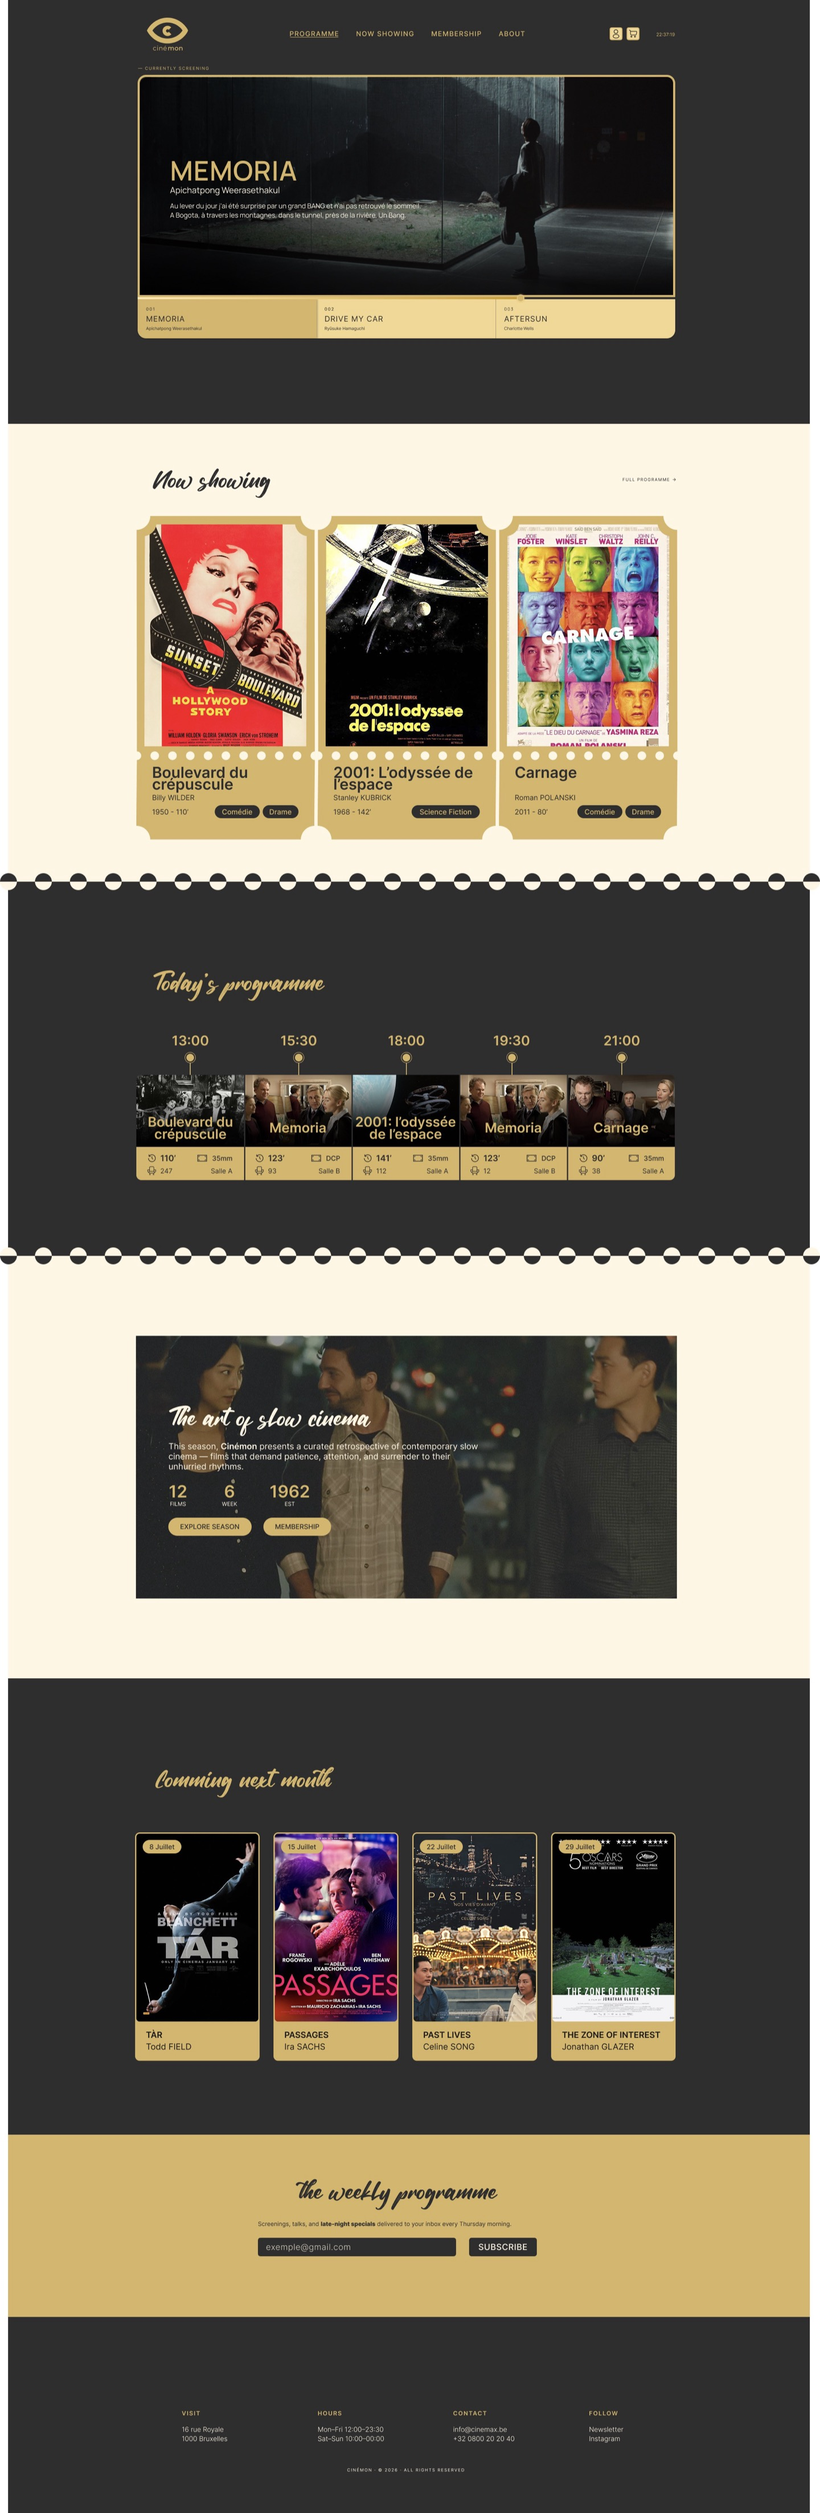
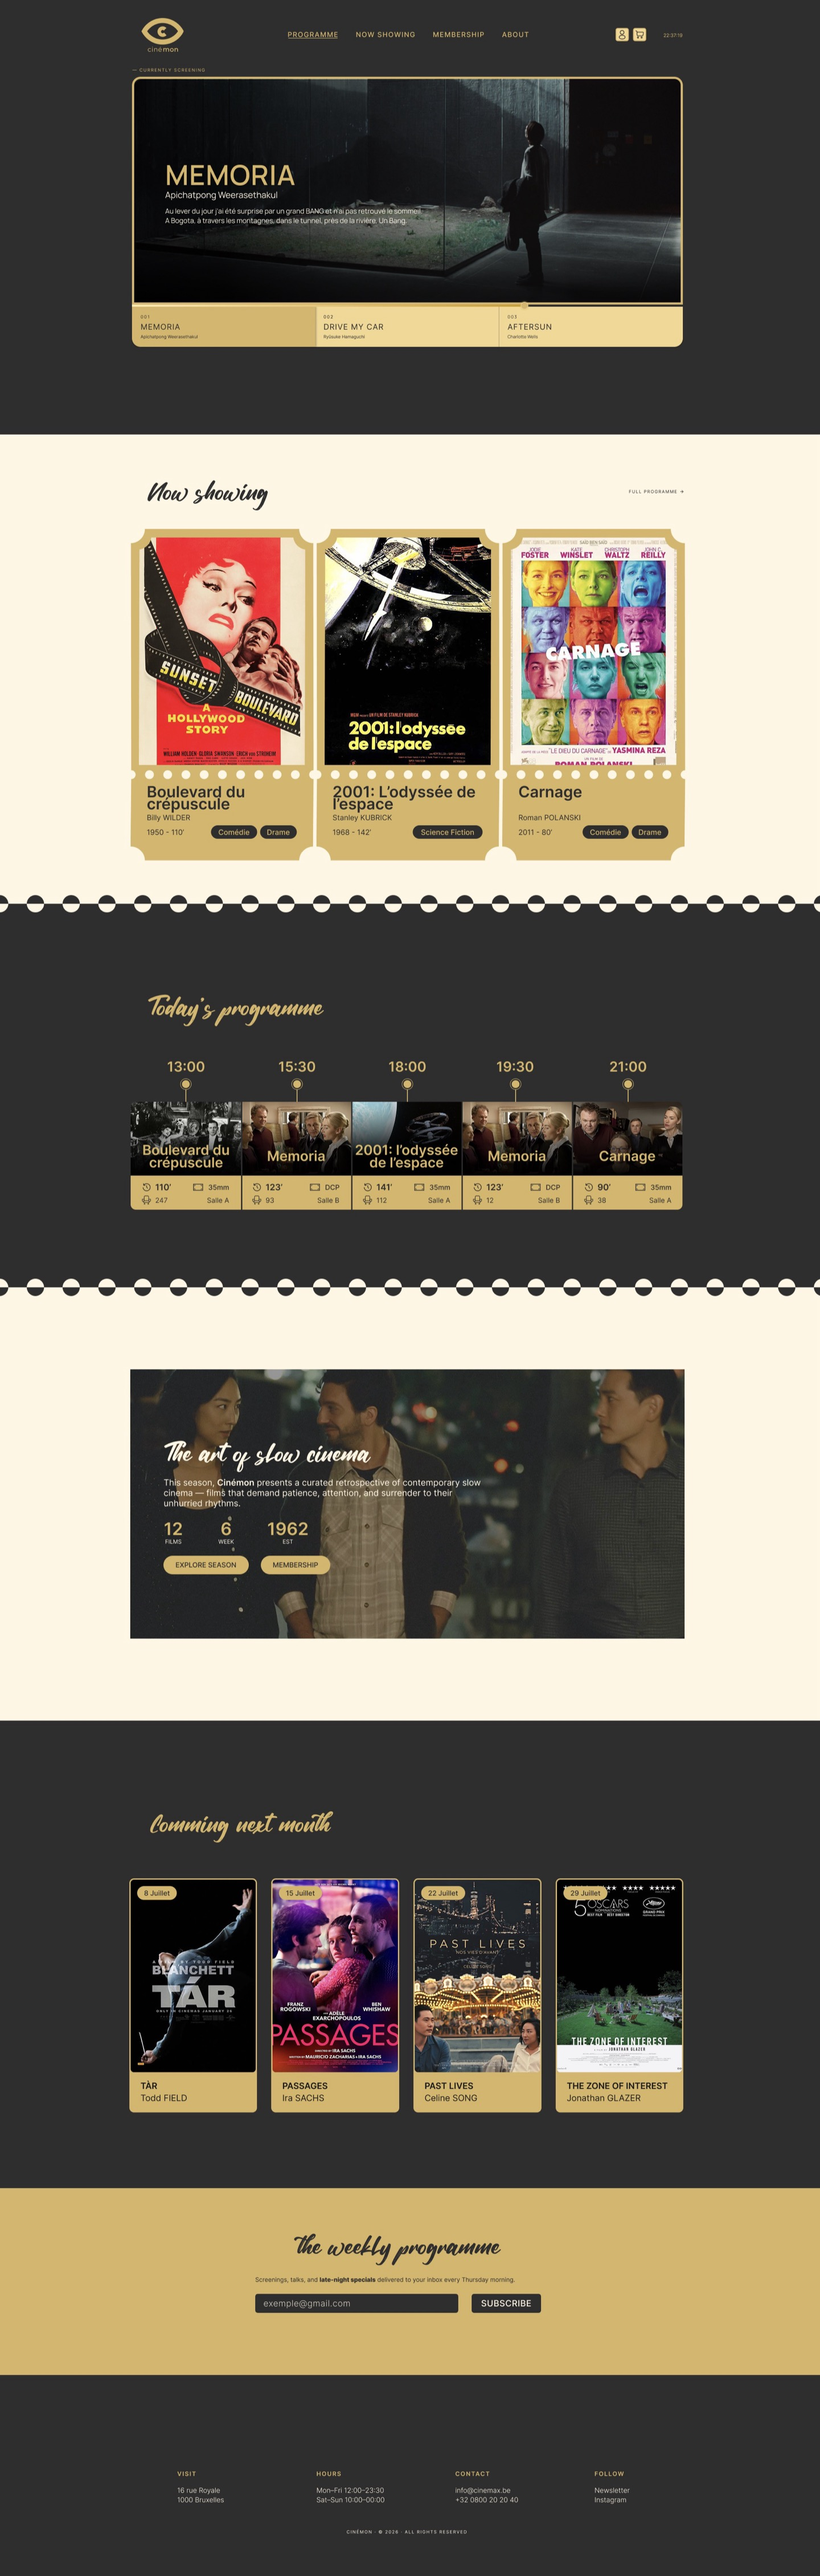
Multiples correctifs

diff --git a/js/main.js b/js/main.js
@@ -50,7 +50,7 @@
     cinemon: {
       title: 'Cinémon',
       items: [
-        { src: 'assets/img/cinemon-desktop.jpg', w: 1440, h: 4411, kind: 'wide', cap: 'Desktop : page d\'accueil complète', alt: 'Page d\'accueil desktop de Cinémon' },
+        { src: 'assets/img/cinemon-desktop.jpg', w: 1440, h: 4520, kind: 'wide', cap: 'Desktop : page d\'accueil complète', alt: 'Page d\'accueil desktop de Cinémon' },
         { src: 'assets/img/cinemon-mobile.jpg', w: 375, h: 5454, kind: 'phone', cap: 'Mobile', alt: 'Version mobile de Cinémon' },
       ],
     },
@@ -231,20 +231,23 @@
     ScrollTrigger.addEventListener('refreshInit', () => ScrollTrigger.sort());
 
     /* Reel : le cadre s'ouvre en plein écran, les colonnes glissent.
-       Créé une seule fois (les valeurs s'adaptent à la largeur à chaque recalcul). */
-    const travel = () => (narrow() ? 0.15 : 0.3);
-    const reel = gsap.timeline({
-      scrollTrigger: { trigger: '.reel', start: 'top top', end: '+=150%', pin: true, scrub: true, invalidateOnRefresh: true },
-    });
-    reel.fromTo('.reel__frame',
-      { clipPath: 'inset(16% 20% 16% 20% round 28px)' },
-      { clipPath: 'inset(0% 0% 0% 0% round 0px)', ease: 'power2.inOut', duration: 0.55 }, 0);
-    reel.fromTo('.reel__cols', { scale: 1.25 }, { scale: 1, ease: 'power2.inOut', duration: 0.55 }, 0);
-    $$('.reel__col').forEach((col) => {
-      const s = parseFloat(col.dataset.speed);
-      reel.fromTo(col, { y: () => s * vh() * travel() }, { y: () => -s * vh() * travel(), ease: 'none', duration: 1 }, 0);
-    });
-    reel.fromTo('.reel__caption', { autoAlpha: 0, y: 24 }, { autoAlpha: 1, y: 0, duration: 0.15 }, 0.5);
+       Section actuellement désactivée dans index.html (balise <template>) : ce code ne s'exécute
+       que si elle est réactivée. Créé une seule fois, les valeurs s'adaptent à chaque recalcul. */
+    if ($('.reel')) {
+      const travel = () => (narrow() ? 0.15 : 0.3);
+      const reel = gsap.timeline({
+        scrollTrigger: { trigger: '.reel', start: 'top top', end: '+=150%', pin: true, scrub: true, invalidateOnRefresh: true },
+      });
+      reel.fromTo('.reel__frame',
+        { clipPath: 'inset(16% 20% 16% 20% round 28px)' },
+        { clipPath: 'inset(0% 0% 0% 0% round 0px)', ease: 'power2.inOut', duration: 0.55 }, 0);
+      reel.fromTo('.reel__cols', { scale: 1.25 }, { scale: 1, ease: 'power2.inOut', duration: 0.55 }, 0);
+      $$('.reel__col').forEach((col) => {
+        const s = parseFloat(col.dataset.speed);
+        reel.fromTo(col, { y: () => s * vh() * travel() }, { y: () => -s * vh() * travel(), ease: 'none', duration: 1 }, 0);
+      });
+      reel.fromTo('.reel__caption', { autoAlpha: 0, y: 24 }, { autoAlpha: 1, y: 0, duration: 0.15 }, 0.5);
+    }
 
     /* Parcours : défilement horizontal sur desktop, liste verticale sur mobile */
     mm.add('(min-width: 901px)', () => {
@@ -392,16 +395,28 @@
     });
 
     /* Projets : la scène s'ouvre, les captures défilent dans les écrans */
+    const PRESENTATION = 2.6; // durée de la présentation des sites, en hauteurs d'écran de scroll
+    const RAMP = 0.2;         // part de cette durée pour freiner (et autant pour repartir)
+    const HOLD = 0.1;         // vitesse de la scène au centre (0.1 = 10 % de la vitesse de la page)
+
+    // Courbe « plateau » : part et arrive à vitesse nulle, vitesse constante au milieu.
+    // r = part du trajet consacrée à accélérer (et autant à ralentir).
+    const plateau = (r) => {
+      const G = (p) => (p < r ? p / 2 - (r / (2 * Math.PI)) * Math.sin((Math.PI * p) / r) : r / 2 + (p - r));
+      const total = 1 - r;
+      return (p) => (p <= 1 - r ? G(p) : total - G(1 - p)) / total;
+    };
+
     $$('.project__stage').forEach((stage) => {
       const wrap = stage.parentElement;
       const shots = $$('[data-scrollshot]', stage);
 
-      // Sites web : la présentation démarre juste avant que la scène atteigne le centre.
-      // Pendant qu'elle défile dans l'écran, la scène continue de monter, mais au ralenti
-      // (elle parcourt 28 % de l'écran pendant 160 % de scroll), sans jamais bloquer la page.
-      const presentation = () => window.innerHeight * 1.6;
-      const drift = () => window.innerHeight * 0.28;
-      const extra = () => (shots.length ? presentation() - drift() : 0);
+      // Sites web : en approchant du centre, la scène freine progressivement jusqu'à presque
+      // s'arrêter, le site défile dans l'écran, puis elle repart progressivement.
+      // La vitesse ne change jamais d'un coup : pas d'à-coup à l'entrée ni à la sortie.
+      const length = () => window.innerHeight * PRESENTATION;
+      const extra = () => (shots.length ? length() * (1 - HOLD) * (1 - RAMP) : 0); // retard pris par la scène
+      const drift = () => length() - extra(); // distance réellement parcourue à l'écran pendant la présentation
       if (shots.length) {
         const setSpace = () => { wrap.style.paddingBottom = `${extra()}px`; };
         setSpace();
@@ -409,24 +424,26 @@
         const tl = gsap.timeline({
           scrollTrigger: {
             trigger: wrap,
-            start: () => `top+=${stage.offsetHeight / 2} 64%`,
-            end: () => `+=${presentation()}`,
-            scrub: 0.6,
+            // départ calculé pour que le moment le plus lent soit pile au centre de l'écran
+            start: () => `top+=${stage.offsetHeight / 2} center+=${drift() / 2}`,
+            end: () => `+=${length()}`,
+            scrub: true,
             invalidateOnRefresh: true,
           },
         });
-        tl.to(stage, { y: () => extra(), ease: 'none', duration: 1 }, 0);
+        tl.to(stage, { y: () => extra(), ease: plateau(RAMP), duration: 1 }, 0);
         shots.forEach((vp) => {
           const img = $('img', vp);
-          tl.to(img, { y: () => -(img.offsetHeight - vp.clientHeight), ease: 'none', duration: 1 }, 0);
+          // le site ne défile que pendant que la scène est (presque) immobile au centre
+          tl.to(img, { y: () => -(img.offsetHeight - vp.clientHeight), ease: plateau(0.15), duration: 1 - 2 * RAMP }, RAMP);
         });
       }
 
       gsap.fromTo(stage,
         { clipPath: 'inset(9% 7% 9% 7% round 28px)' },
-        { clipPath: 'inset(0% 0% 0% 0% round 28px)', ease: 'none', scrollTrigger: { trigger: wrap, start: 'top 95%', end: 'top 20%', scrub: true } });
+        { clipPath: 'inset(0% 0% 0% 0% round 28px)', ease: 'none', scrollTrigger: { trigger: wrap, start: 'top 95%', end: 'top 50%', scrub: true } });
       gsap.fromTo($('.stage__inner', stage), { scale: 1.12 }, {
-        scale: 1, ease: 'none', scrollTrigger: { trigger: wrap, start: 'top 95%', end: 'top 20%', scrub: true },
+        scale: 1, ease: 'none', scrollTrigger: { trigger: wrap, start: 'top 95%', end: 'top 50%', scrub: true },
       });
 
       // Amplitude proportionnelle à la scène : les éléments flottants restent dans le cadre sur mobile
@@ -525,28 +542,10 @@
     document.addEventListener('mouseover', (e) => {
       const labelled = e.target.closest('[data-cursor]');
       const link = e.target.closest('a, button');
-      const inIndex = !!e.target.closest('.index a'); // liste des projets : simple point au-dessus de l'aperçu
+      const inIndex = !!e.target.closest('.index a'); // liste des projets : le curseur reste un simple point
       cursor.classList.toggle('cursor--label', !!labelled);
       cursor.classList.toggle('cursor--link', !labelled && !!link && !inIndex);
       if (labelled) label.textContent = labelled.dataset.cursor;
-    });
-
-    /* Aperçu qui suit la souris sur la liste des projets */
-    const preview = $('.index__preview');
-    const previewImg = $('img', preview);
-    gsap.set(preview, { xPercent: -50, yPercent: -50, scale: 0.6, rotation: -8, autoAlpha: 0 });
-    const px = gsap.quickTo(preview, 'x', { duration: 0.7, ease: 'power3' });
-    const py = gsap.quickTo(preview, 'y', { duration: 0.7, ease: 'power3' });
-    const index = $('.index');
-    index.addEventListener('mousemove', (e) => { px(e.clientX); py(e.clientY); });
-    $$('a', index).forEach((a) => {
-      a.addEventListener('mouseenter', () => {
-        previewImg.src = a.dataset.preview;
-        gsap.to(preview, { autoAlpha: 1, scale: 1, rotation: 0, duration: 0.6, ease: 'expo.out', overwrite: 'auto' });
-      });
-      a.addEventListener('mouseleave', () => {
-        gsap.to(preview, { autoAlpha: 0, scale: 0.6, rotation: -8, duration: 0.4, ease: 'power3.out', overwrite: 'auto' });
-      });
     });
 
     /* Boutons magnétiques */

diff --git a/index.html b/index.html
@@ -48,6 +48,7 @@
       <nav class="nav__links" aria-label="Navigation principale">
         <a href="#projets" data-scroll-to>Projets</a>
         <a href="#apropos" data-scroll-to>À propos</a>
+        <a href="#competences" data-scroll-to>Compétences</a>
         <a href="#parcours" data-scroll-to>Parcours</a>
         <a href="#contact" data-scroll-to>Contact</a>
       </nav>
@@ -81,12 +82,14 @@
       </h1>
     </section>
 
-    <!-- GALERIE (colonnes en parallaxe) -->
+    <!-- GALERIE DU DÉBUT : désactivée le 15/10/2026, conservée pour pouvoir la remettre.
+         Pour la réactiver : supprimer la ligne <template> ci-dessous et sa ligne </template>. -->
+    <template data-archive="reel">
     <section class="reel" aria-label="Aperçu des projets">
       <div class="reel__frame">
         <div class="reel__cols">
           <div class="reel__col" data-speed="-1">
-            <img src="assets/img/cinemon-desktop.jpg" width="1440" height="4411" alt="" class="reel__img reel__img--wide">
+            <img src="assets/img/cinemon-desktop.jpg" width="1440" height="4520" alt="" class="reel__img reel__img--wide">
             <img src="assets/img/workout-home.jpg" width="393" height="852" alt="">
             <img src="assets/img/gabrielle-pathologie.jpg" width="1440" height="826" alt="" class="reel__img reel__img--wide">
             <img src="assets/img/astro-venus.jpg" width="402" height="874" alt="">
@@ -100,7 +103,7 @@
           <div class="reel__col" data-speed="-1.4">
             <img src="assets/img/gabrielle-site.jpg" width="1440" height="5133" alt="" class="reel__img reel__img--wide">
             <img src="assets/img/astro-venus.jpg" width="402" height="874" alt="">
-            <img src="assets/img/cinemon-desktop.jpg" width="1440" height="4411" alt="" class="reel__img reel__img--wide reel__img--mid">
+            <img src="assets/img/cinemon-desktop.jpg" width="1440" height="4520" alt="" class="reel__img reel__img--wide reel__img--mid">
             <img src="assets/img/workout-home.jpg" width="393" height="852" alt="">
           </div>
           <div class="reel__col" data-speed="0.8">
@@ -113,6 +116,7 @@
         <p class="reel__caption">4 projets · Web &amp; Mobile · Conçus dans Figma</p>
       </div>
     </section>
+    </template>
 
     <!-- MARQUEE -->
     <section class="marquee" aria-hidden="true">
@@ -164,21 +168,20 @@
         </div>
 
         <ol class="index" aria-label="Liste des projets">
-          <li><a href="#cinemon" data-scroll-to data-preview="assets/img/cinemon-desktop.jpg">
+          <li><a href="#cinemon" data-scroll-to>
             <span class="index__num">01</span><span class="index__name">Cinémon</span><span class="index__type">Site web responsive</span><span class="index__year">2026</span>
           </a></li>
-          <li><a href="#workout" data-scroll-to data-preview="assets/img/workout-home.jpg">
+          <li><a href="#workout" data-scroll-to>
             <span class="index__num">02</span><span class="index__name">Workout</span><span class="index__type">Application mobile</span><span class="index__year">2026</span>
           </a></li>
-          <li><a href="#astro" data-scroll-to data-preview="assets/img/astro-mars.jpg">
+          <li><a href="#astro" data-scroll-to>
             <span class="index__num">03</span><span class="index__name">Astro</span><span class="index__type">Application mobile</span><span class="index__year">2026</span>
           </a></li>
-          <li><a href="#gabrielle" data-scroll-to data-preview="assets/img/gabrielle-hero.jpg">
+          <li><a href="#gabrielle" data-scroll-to>
             <span class="index__num">04</span><span class="index__name">Gabrielle</span><span class="index__type">Site vitrine</span><span class="index__year">2026</span>
           </a></li>
         </ol>
       </div>
-      <div class="index__preview" aria-hidden="true"><img src="" alt=""></div>
     </section>
 
     <!-- PROJET 01 : CINÉMON -->
@@ -197,14 +200,14 @@
             <div class="laptop" data-float="0.6">
               <div class="laptop__screen">
                 <div class="laptop__viewport" data-scrollshot>
-                  <img src="assets/img/cinemon-desktop.jpg" width="1440" height="4411" alt="Page d'accueil desktop du site Cinémon, de l'en-tête au pied de page" loading="lazy">
+                  <img src="assets/img/cinemon-desktop.jpg" width="1440" height="4520" alt="Page d'accueil desktop du site Cinémon, de l'en-tête au pied de page" decoding="async">
                 </div>
               </div>
               <div class="laptop__base"></div>
             </div>
             <div class="phone phone--cinemon" data-float="-0.8">
               <div class="phone__screen" data-scrollshot>
-                <img src="assets/img/cinemon-mobile.jpg" width="375" height="5454" alt="Version mobile du site Cinémon" loading="lazy">
+                <img src="assets/img/cinemon-mobile.jpg" width="375" height="5454" alt="Version mobile du site Cinémon" decoding="async">
               </div>
             </div>
           </div>
@@ -329,7 +332,7 @@
             <div class="browser" data-float="0.4">
               <div class="browser__bar"><i></i><i></i><i></i><span class="browser__url">Bientôt en ligne</span></div>
               <div class="browser__viewport" data-scrollshot>
-                <img src="assets/img/gabrielle-site.jpg" width="1440" height="5133" alt="Page d'accueil complète du site Gabrielle" loading="lazy">
+                <img src="assets/img/gabrielle-site.jpg" width="1440" height="5133" alt="Page d'accueil complète du site Gabrielle" decoding="async">
               </div>
             </div>
             <figure class="shot shot--a" data-float="-1.4">

diff --git a/css/style.css b/css/style.css
@@ -497,21 +497,6 @@ h1, h2, h3, p, dl, dd, figure { margin: 0; }
   .index a:hover .index__name { transform: translateX(24px); }
 }
 
-.index__preview {
-  position: fixed;
-  top: 0;
-  left: 0;
-  z-index: 40;
-  width: clamp(220px, 22vw, 340px);
-  aspect-ratio: 4 / 5;
-  border-radius: 20px;
-  overflow: hidden;
-  pointer-events: none;
-  visibility: hidden;
-  background: var(--wash);
-}
-.index__preview img { width: 100%; height: 100%; object-fit: cover; object-position: top; }
-
 @media (max-width: 760px) {
   .index a { grid-template-columns: 36px 1fr auto; }
   .index__type { display: none; }
